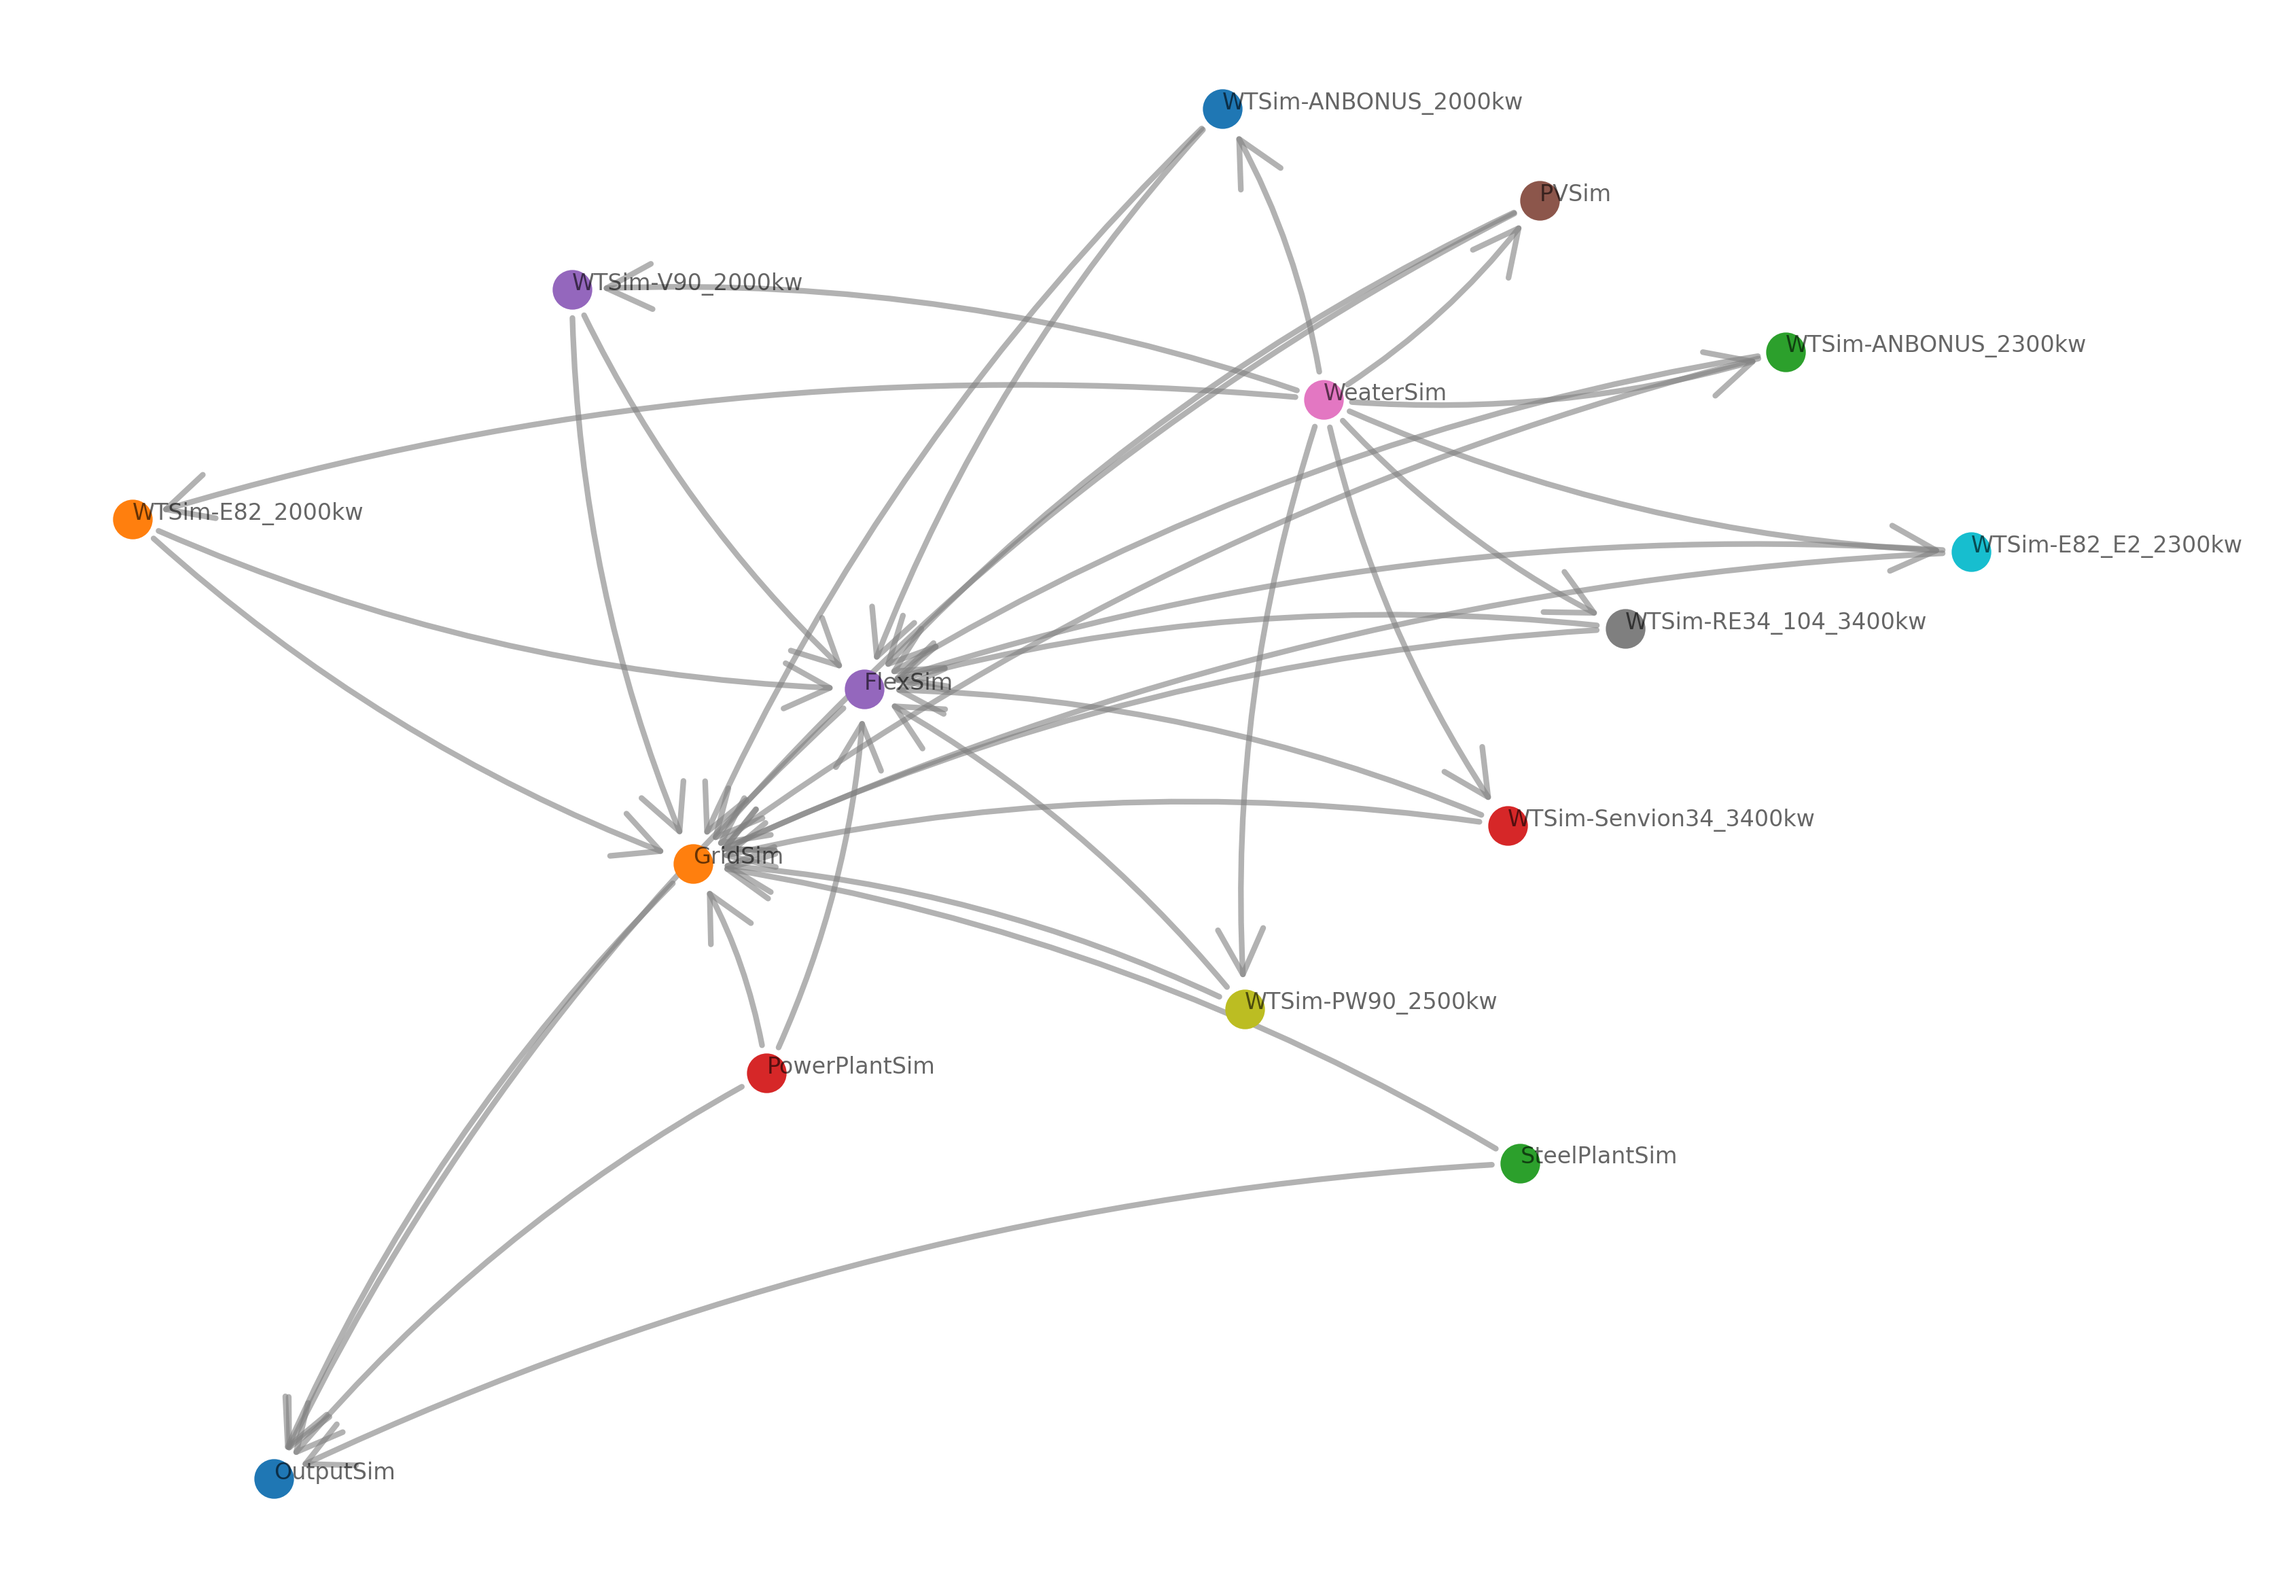
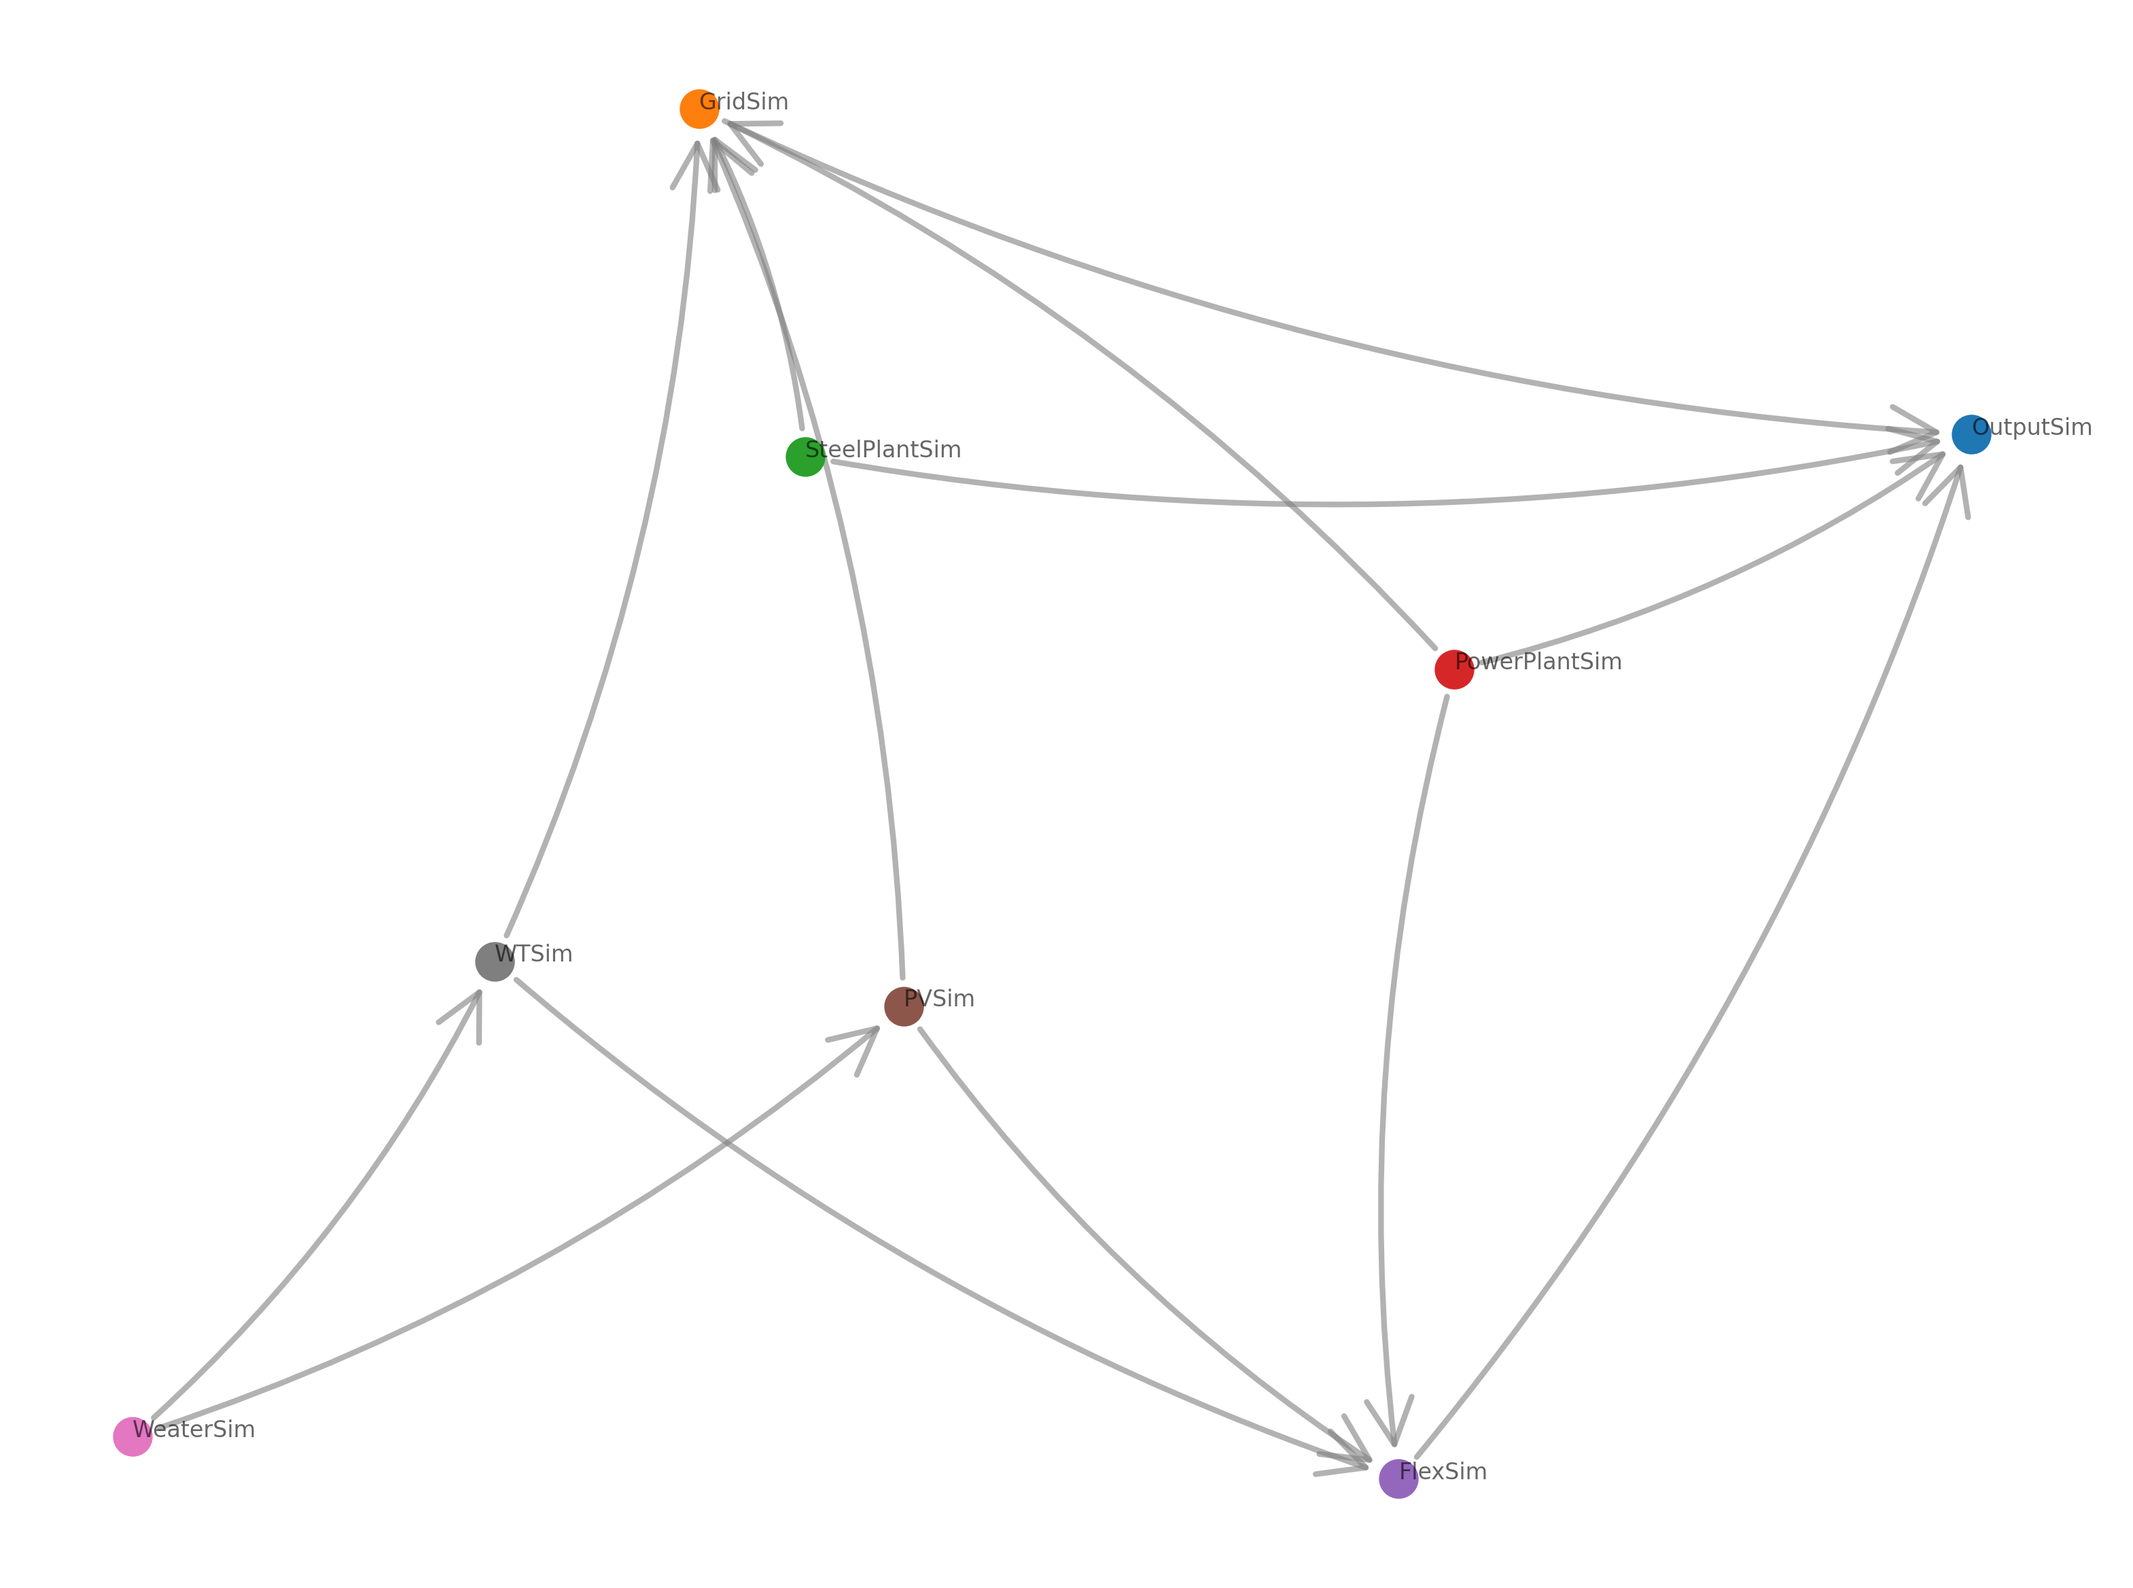
windsim update

diff --git a/test_scenario.py b/test_scenario.py
@@ -71,6 +71,7 @@ print(f"Grid model of {len(grid_model.load)} loads,\
 world = mosaik.World(sim_config)
 output_sim = world.start('OutputSim', sim_id="OutputSim", start_date = START_DATE,output_file=output_file)
 pv_sim = world.start('PVSim', sim_id="PVSim", step_size=STEP_SIZE, start_date=f"{START_DATE}Z", gen_neg=GEN_NEG)
+wt_sim = world.start("WTSim", sim_id=f"WTSim", step_size=STEP_SIZE, gen_neg=GEN_NEG)
 flex_sim = world.start("FlexSim", sim_id="FlexSim", step_size=STEP_SIZE, sim_params=dict(gen_neg=False))
 grid_sim = world.start('GridSim', sim_id='GridSim', step_size=STEP_SIZE) # step_size=None is important to have the grid model triggered by any input
 weater_input = world.start("InputSim", 
@@ -115,7 +116,6 @@ def get_power_unit(key, type='Bus', first=True):
         return units[0]
     return units
 
-wt_sims = {}
 switch_off = []
 units = {}
 #gens = 0
@@ -132,15 +132,8 @@ for id, setup in MODEL_SETUPS.items():
             #gens += 1
             #world.connect(units[id], outputs, ('p_mw', 'P[MW]'))
         elif 'WT' in id:
-            model_type = setup["module_type"]
-            wtsim = wt_sims.get(model_type)
-            if not wtsim:
-                wtsim = world.start("WTSim", sim_id=f"WTSim-{model_type}",
-                                power_curve_csv=os.path.join(data_dir, WT_MODULES[model_type]),
-                                step_size=STEP_SIZE, 
-                                gen_neg=GEN_NEG)
-                wt_sims[model_type] = wtsim
-            units[id] = wtsim.WT(max_power=setup['max_power'])
+            units[id] = wt_sim.WT(max_power=setup['max_power'], 
+                                  power_curve=os.path.join(data_dir, WT_MODULES[setup["module_type"]]))
             world.connect(weather, units[id], 'wind_speed')
             world.connect(units[id], get_power_unit(id), ('P_gen', 'P_gen[MW]'))
 

diff --git a/simulators/wind/simulator.py b/simulators/wind/simulator.py
@@ -12,6 +12,7 @@ meta = {
             'public': True,
             'params': [  # Define the parameters of the related class
                 'max_power',  # Max Rated Power
+                'power_curve', # Path to pover curve CSV file
             ],
             'attrs': ['P_gen',  # Generated Instant Power
                       'wind_speed',  # Instant Wind Speed
